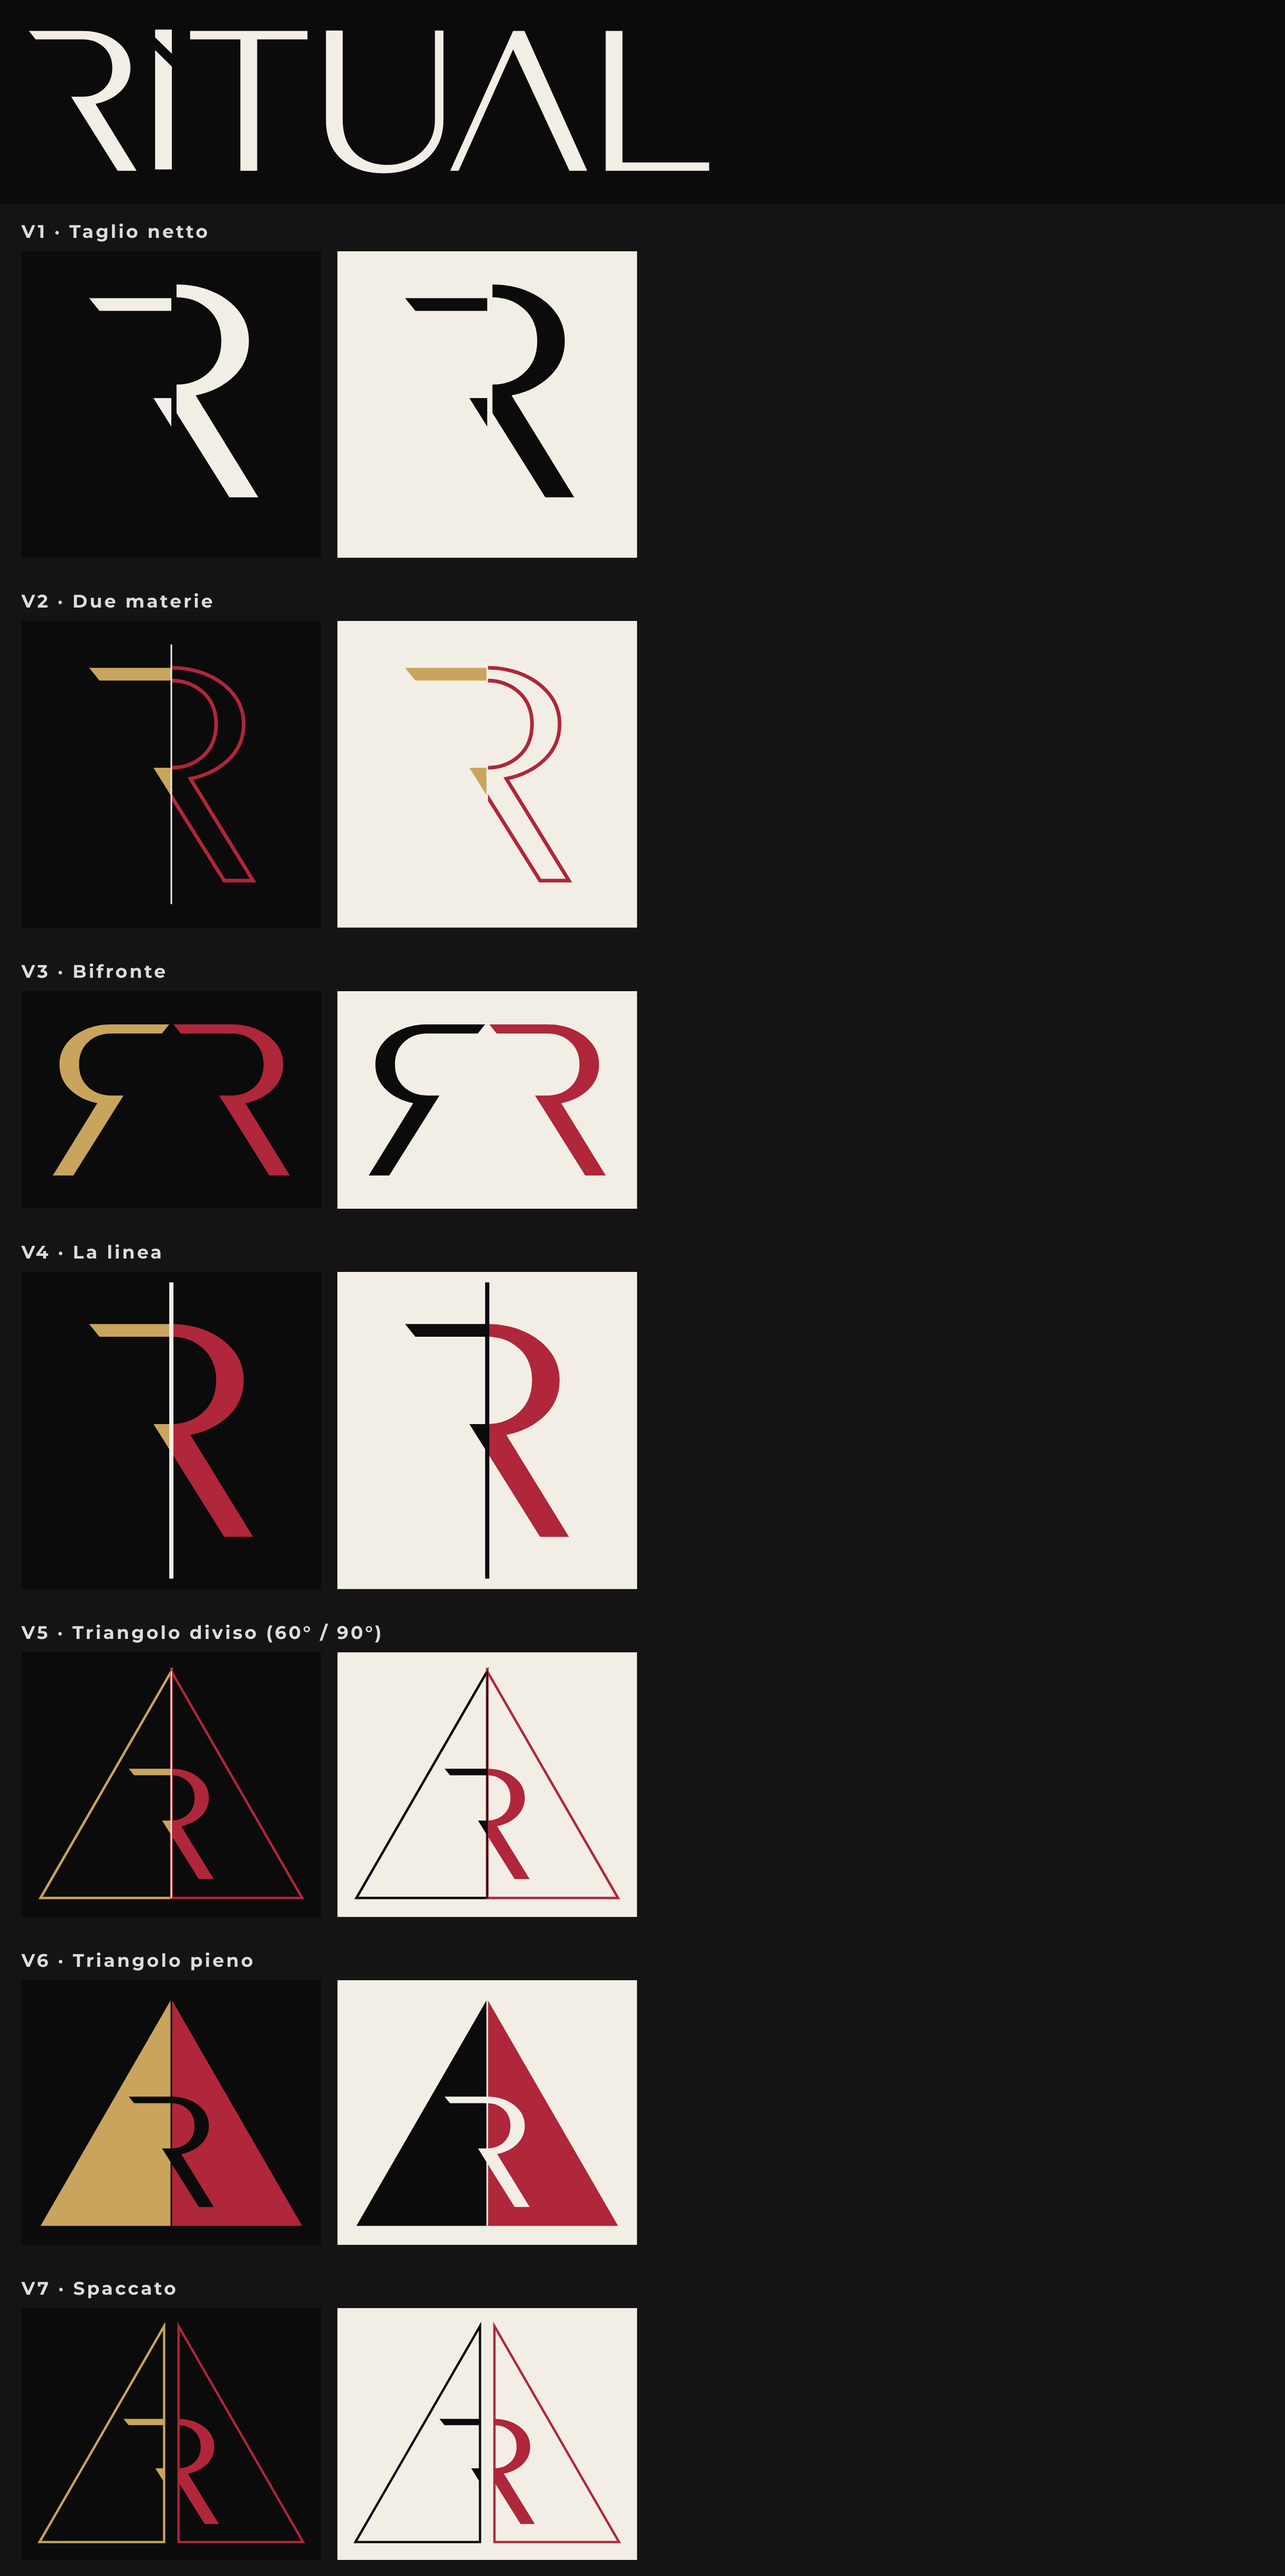
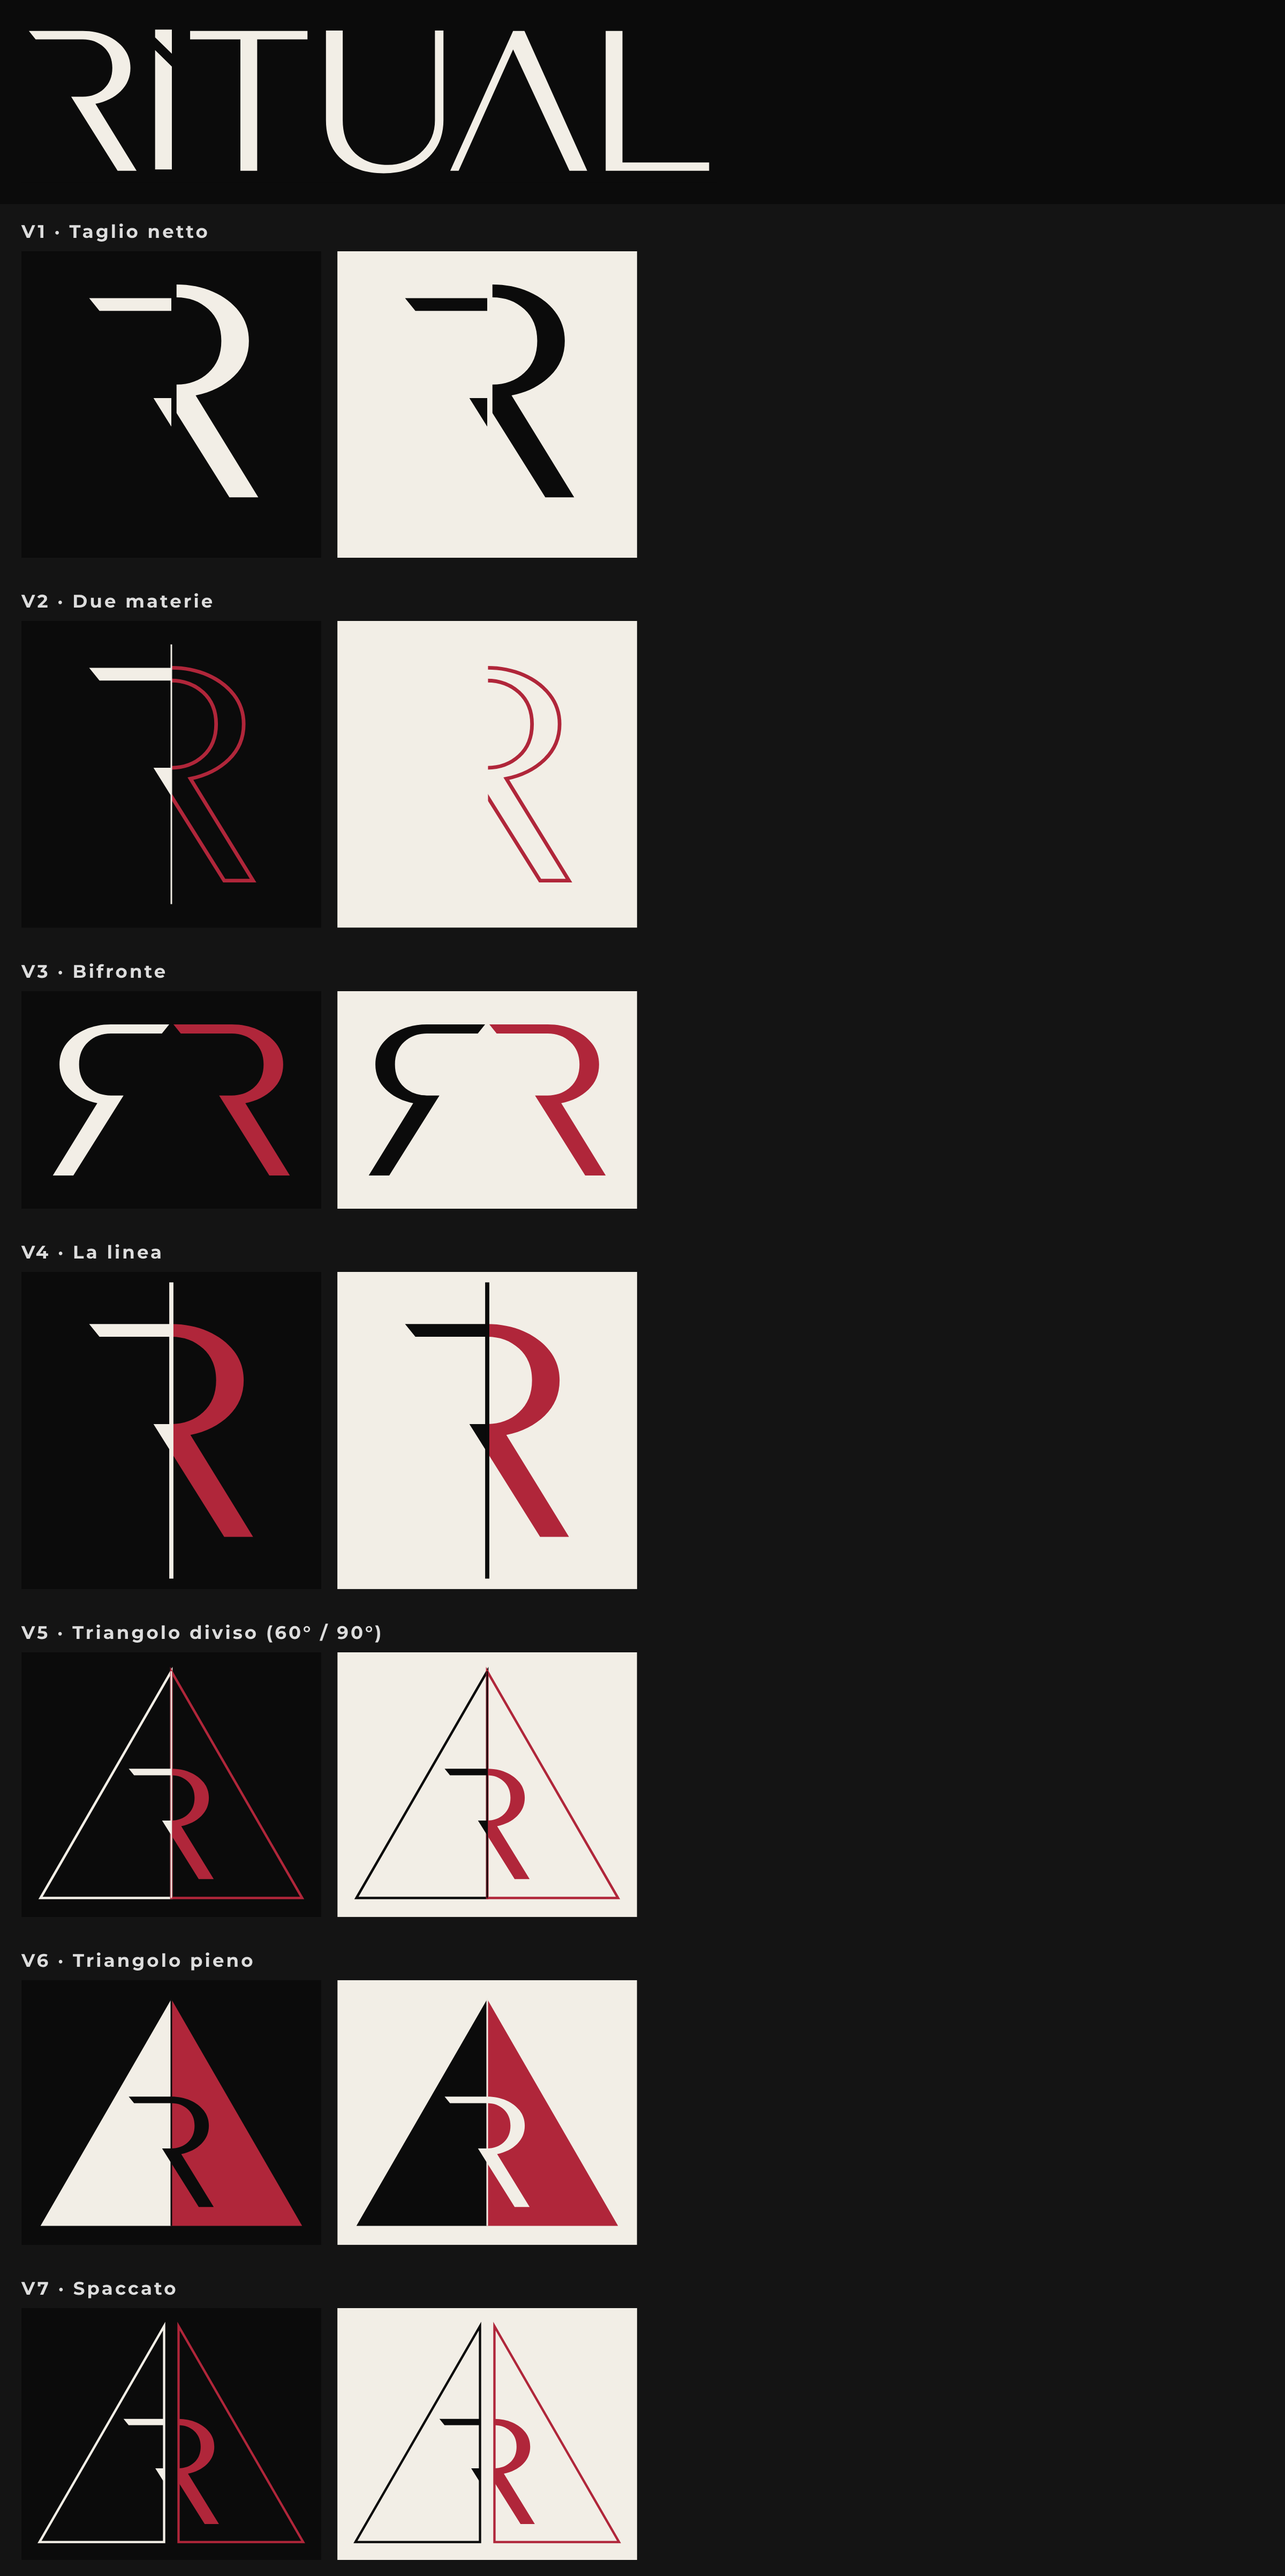
Brand RITUAL: niente oro, linea Ordine in bianco osso
Claude-Session: https://claude.ai/code/session_017K4G9mX3GofrKpUdgLBJn1

diff --git a/tools/segno.py b/tools/segno.py
@@ -12,7 +12,8 @@ SRC = ROOT / "brand/logo/ritual-logo-su-nero.svg"
 OUT = ROOT / "brand/abbigliamento"
 OUT.mkdir(parents=True, exist_ok=True)
 
-GOLD, RED, BONE, BLACK = "#C9A45C", "#B0263A", "#F2EEE6", "#0B0B0B"
+# niente oro (scelta di Rocco): la linea Ordine usa il bianco osso
+GOLD, RED, BONE, BLACK = "#F2EEE6", "#B0263A", "#F2EEE6", "#0B0B0B"
 
 paths = re.findall(r'<path[^>]*d="([^"]+)"', SRC.read_text())
 LETTERE = paths[10:16]          # R, i, T, U, A, L
